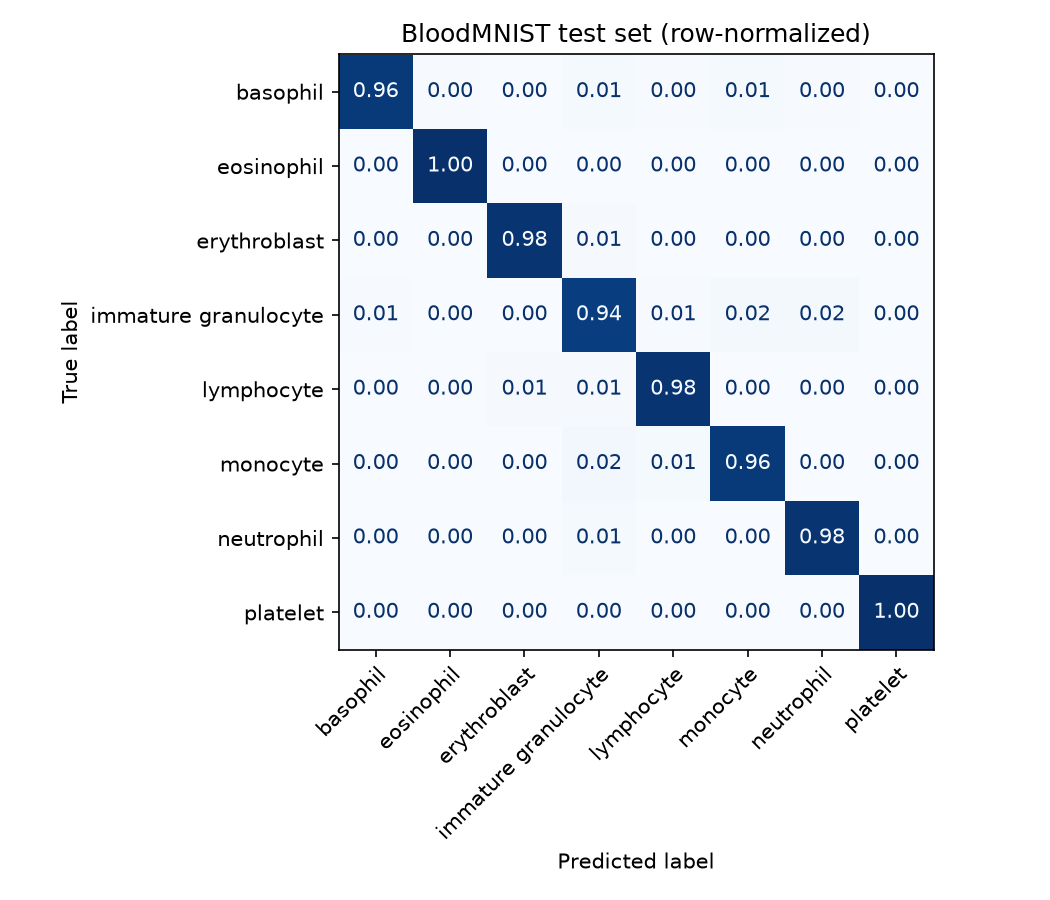
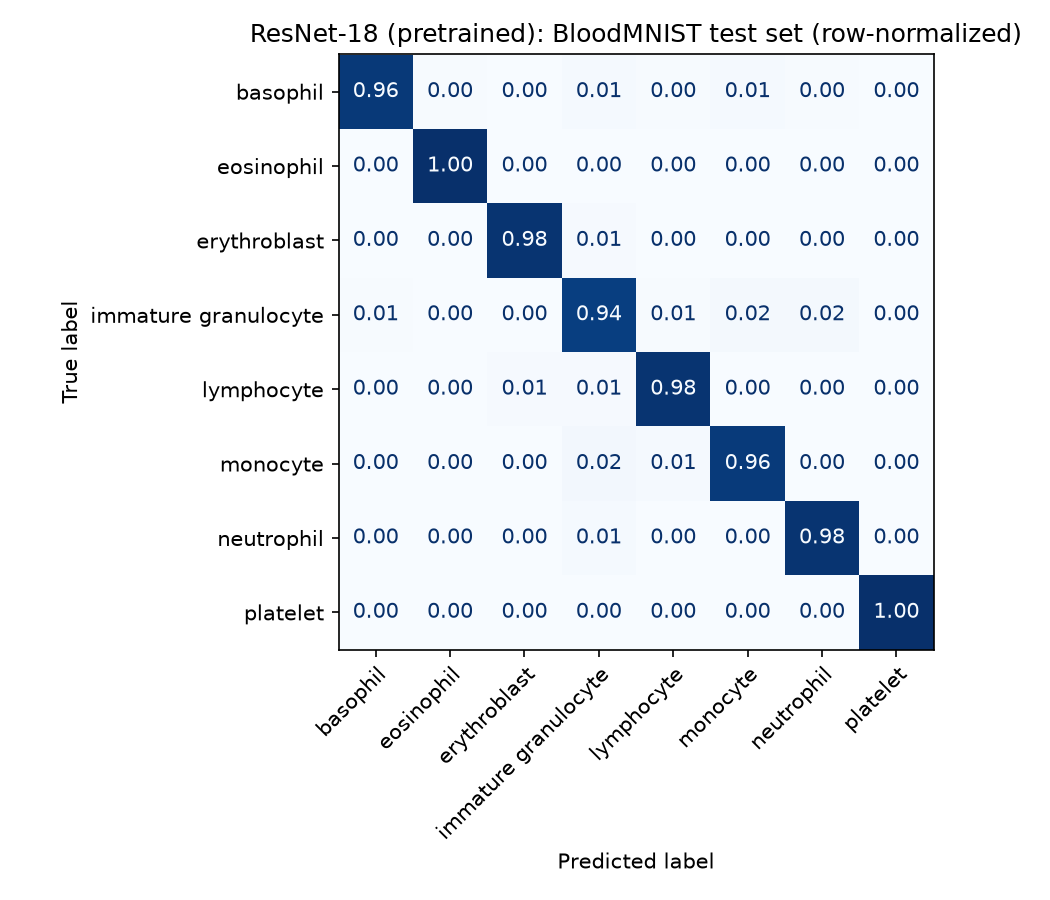
Code review fixes; add CLAUDE.md with review checklist
- evaluate(): decide instance labels vs. binary mask by dtype (int32),
  matching label_objects; one-cell label images and 0/255 masks were
  misclassified
- fit(): clear error instead of crashing when validation never improves
- train_medical.py: reject --optuna/--epochs/--out where they would be
  silently ignored; confusion-matrix titles name the model
- Move duplicated color_labels into src/segmentation.py
- CLAUDE.md: project facts, review checklist and review log

Changed region(s): [[0.2438, 0.0311, 0.9752, 0.0622]]

diff --git a/train_medical.py b/train_medical.py
@@ -64,7 +64,7 @@ def train_mlp_baseline(device: str, data_dir: str) -> float:
     return evaluate(model, test_loader, loss_fn, device)[1]
 
 
-def save_confusion_matrix(model, test_loader, device: str, path: str):
+def save_confusion_matrix(model, test_loader, device: str, path: str, title: str):
     """Plots a row-normalized confusion matrix of the test set."""
     import matplotlib.pyplot as plt
     from sklearn.metrics import ConfusionMatrixDisplay
@@ -83,7 +83,7 @@ def save_confusion_matrix(model, test_loader, device: str, path: str):
         values_format=".2f", cmap="Blues", xticks_rotation=45, ax=ax, colorbar=False,
     )
     plt.setp(ax.get_xticklabels(), ha="right", rotation_mode="anchor")
-    ax.set_title("BloodMNIST test set (row-normalized)")
+    ax.set_title(f"{title}: BloodMNIST test set (row-normalized)")
     fig.tight_layout()
     fig.savefig(path, dpi=150)
     print(f"Saved confusion matrix to {path}")
@@ -101,6 +101,12 @@ def main():
     parser.add_argument("--out", default=None,
                         help="weights file (default: biomedical_cnn.pth / biomedical_resnet18.pth)")
     args = parser.parse_args()
+    # Options that only apply to some models are rejected rather than silently ignored.
+    if args.optuna and args.model != "cnn":
+        parser.error("--optuna only applies to --model cnn")
+    if args.model == "mlp" and (args.out or args.epochs != parser.get_default("epochs")):
+        parser.error("--model mlp reproduces the fixed original baseline (5 epochs, no saved "
+                     "weights); --epochs and --out do not apply")
 
     torch.manual_seed(args.seed)
     device = get_device()
@@ -136,7 +142,8 @@ def main():
                    "test_accuracy": test_acc}, f, indent=2)
     print(f"Saved weights to {out}")
     suffix = "-resnet18" if args.model == "resnet18" else ""
-    save_confusion_matrix(model, test_loader, device, f"public/bloodmnist-confusion{suffix}.png")
+    title = "ResNet-18 (pretrained)" if args.model == "resnet18" else "Custom CNN"
+    save_confusion_matrix(model, test_loader, device, f"public/bloodmnist-confusion{suffix}.png", title)
 
 
 if __name__ == "__main__":

diff --git a/src/segmentation.py b/src/segmentation.py
@@ -78,6 +78,15 @@ def label_objects(mask: np.ndarray, min_size: int = 20) -> np.ndarray:
     return labels
 
 
+def color_labels(labels: np.ndarray) -> np.ndarray:
+    """RGB image with a random colour per instance and a black background.
+    The palette is seeded, so an id gets the same colour in every panel.
+    """
+    palette = np.random.default_rng(1).uniform(0.25, 1.0, (int(labels.max()) + 1, 3))
+    palette[0] = 0
+    return palette[labels]
+
+
 def instance_f1(gt_labels: np.ndarray, pred_labels: np.ndarray,
                 iou_thresh: float = 0.5) -> Tuple[float, int, int]:
     """Object-level F1. A true cell and a predicted object match when their
@@ -291,11 +300,13 @@ def evaluate(gt_mask: np.ndarray, results: Dict[str, np.ndarray]) -> "list[dict]
     """Score every method's mask against the ground truth. Returns a list
     of dicts (ready for ``pd.DataFrame``), sorted by Dice descending.
 
-    ``gt_mask`` may be a binary mask or an instance label image; with
-    instance labels, instance F1 and the object counts are added.
+    ``gt_mask`` may be a binary mask (any non-int32 dtype, e.g. 0/1 or 0/255
+    uint8) or an int32 instance label image, the same convention as
+    ``label_objects``; with instance labels, instance F1 and the object
+    counts are added.
     """
     gt_bin = (gt_mask > 0)
-    gt_labels = gt_mask.astype(np.int32) if gt_mask.max() > 1 else None
+    gt_labels = gt_mask if gt_mask.dtype == np.int32 else None
     rows = []
     for name, mask in results.items():
         pred_bin = (mask > 0)

diff --git a/tests/test_modules.py b/tests/test_modules.py
@@ -122,3 +122,25 @@ def test_convolve2d_output_shape():
     image = np.random.rand(20, 20)
     out = convolve2d(image, KERNELS["box_blur"], padding=1)
     assert out.shape == (20, 20)
+
+
+def test_evaluate_detects_ground_truth_type_by_dtype():
+    one_cell = np.zeros((20, 20), dtype=np.int32)
+    one_cell[5:12, 5:12] = 1                          # instance labels with a single cell
+    rows = evaluate(one_cell, {"perfect": one_cell.copy()})
+    assert rows[0]["instance_f1"] == 1.0 and rows[0]["cells_true"] == 1
+
+    mask_255 = (one_cell * 255).astype(np.uint8)       # binary mask saved as 0/255
+    rows = evaluate(mask_255, {"perfect": mask_255.copy()})
+    assert "instance_f1" not in rows[0]
+    assert rows[0]["dice"] == pytest.approx(1.0)
+
+
+def test_train_medical_rejects_options_that_do_not_apply(monkeypatch):
+    sys.modules.pop("train_medical", None)
+    import train_medical
+    for argv in (["--model", "resnet18", "--optuna", "5"], ["--model", "mlp", "--epochs", "3"]):
+        monkeypatch.setattr(sys, "argv", ["train_medical.py", *argv])
+        with pytest.raises(SystemExit) as exc:
+            train_medical.main()
+        assert exc.value.code == 2                     # argparse usage error, before any training

diff --git a/src/medical_cnn.py b/src/medical_cnn.py
@@ -1,8 +1,10 @@
 """
 medical_cnn.py
 ==============
-Convolutional neural network for BloodMNIST (28x28 RGB blood-cell images,
-8 classes), plus data loading, training and evaluation helpers.
+Blood-cell classifiers for BloodMNIST (28x28 RGB images, 8 classes): a
+compact custom CNN, the fully connected baseline it replaced, and an
+ImageNet-pretrained ResNet-18 reference; plus preprocessing, data loading,
+training, evaluation and checkpoint helpers.
 
 Requires the optional `torch`, `torchvision` and `medmnist` packages
 (``pip install torch torchvision medmnist``).
@@ -222,5 +224,7 @@ def fit(model, train_loader, val_loader, device: str, epochs: int = 15,
         if verbose:
             print(f"Epoch [{epoch + 1}/{epochs}] train loss {train_loss:.4f} | val acc {val_acc:.4f}")
 
+    if best_state is None:
+        raise RuntimeError("Validation accuracy never rose above 0; check epochs and data.")
     model.load_state_dict(best_state)
     return best_acc

diff --git a/pages/2_Biomedical_Segmentation.py b/pages/2_Biomedical_Segmentation.py
@@ -4,7 +4,7 @@ import pandas as pd
 from PIL import Image
 import matplotlib.pyplot as plt
 from src.segmentation import (
-    benchmark, evaluate, has_bright_background, label_objects, make_cell_image,
+    benchmark, color_labels, evaluate, has_bright_background, label_objects, make_cell_image,
     make_synthetic_image, run_all, cellpose_available,
 )
 
@@ -19,13 +19,6 @@ st.write(
     "pixel-level **Dice / IoU** and with **instance F1**, which checks whether each cell "
     "was segmented as its own object (a match needs IoU > 0.5 with a true cell)."
 )
-
-
-def color_labels(labels: np.ndarray) -> np.ndarray:
-    """Random colour per instance, black background."""
-    palette = np.random.default_rng(1).uniform(0.25, 1.0, (labels.max() + 1, 3))
-    palette[0] = 0
-    return palette[labels]
 
 
 def show_image(img, title, cmap=None, size=4):

diff --git a/benchmark_segmentation.py b/benchmark_segmentation.py
@@ -17,16 +17,9 @@ import matplotlib.pyplot as plt
 import numpy as np
 
 from src.segmentation import (
-    benchmark, cellpose_available, label_objects, make_cell_image, segment_cellpose,
+    benchmark, cellpose_available, color_labels, label_objects, make_cell_image, segment_cellpose,
     segment_otsu, segment_watershed,
 )
-
-
-def color_labels(labels: np.ndarray) -> np.ndarray:
-    """Random colour per instance, black background."""
-    palette = np.random.default_rng(1).uniform(0.25, 1.0, (labels.max() + 1, 3))
-    palette[0] = 0
-    return palette[labels]
 
 
 def save_example(path: str, seed: int = 0, include_cellpose: bool = True):

diff --git a/CLAUDE.md b/CLAUDE.md
@@ -1,0 +1,89 @@
+# CLAUDE.md
+
+Guidance for Claude (and humans) working on this repository.
+
+## Project
+
+Streamlit app + reusable modules for biomedical image analysis, deployed at
+<https://visionserve-full-stack-ml-framework.streamlit.app/>.
+
+- `src/medical_cnn.py` — BloodMNIST classifiers: custom CNN (shipped, 96.6%), MLP baseline (72.9%), ImageNet-pretrained ResNet-18 reference (97.8%)
+- `src/segmentation.py` — classical segmentation, synthetic cell benchmark, Dice/IoU/instance F1, optional Cellpose reference
+- `src/vision_cnn.py` — FashionMNIST MLP (88.1%)
+- `src/classification.py`, `src/clustering.py`, `src/convolution.py`, `src/visualization.py` — ML utilities
+- `pages/` — Streamlit pages; `app.py` — home page
+- `train.py`, `train_medical.py`, `benchmark_segmentation.py` — reproducible scripts behind every number in the README
+
+## Commands
+
+```bash
+pip install -r requirements.txt -r requirements-dev.txt   # dev extras need Python <= 3.12 (Cellpose)
+pytest tests/                                              # unit + Streamlit AppTest end-to-end tests
+python train_medical.py [--model cnn|mlp|resnet18] [--optuna N]
+python benchmark_segmentation.py --images 50 [--start-seed 100]
+streamlit run app.py
+```
+
+## Facts that are easy to get wrong
+
+- **Streamlit Cloud runs Python 3.14** and ignores `runtime.txt`. Anything in
+  `requirements.txt` must install on 3.14 from prebuilt wheels.
+- **Cellpose 3 pins `numpy<2.1`** (no 3.14 wheels) → it lives in
+  `requirements-dev.txt` only; the app hides Cellpose when it is not installed.
+- CI (`.github/workflows/tests.yml`) runs Python 3.12 with dev extras **and**
+  Python 3.14 with exactly the deployment's dependencies.
+- After every push the deployed app must be rebooted by hand in Streamlit Cloud
+  (the deployment is not auto-syncing).
+- The user's Windows checkout lives under a very long path: datasets need the
+  `\\?\` long-path prefix (see how `--data-dir` is passed), and `uv`/venvs in the
+  scratch folder break. Use the global Python for local checks.
+- BloodMNIST uploads must be reduced to 28×28 with **BOX** (area) resampling;
+  bicubic flips predictions.
+- Brightfield images (light background) are inverted before segmentation
+  (`has_bright_background`).
+- Label images are `int32`; binary masks are any other dtype. `label_objects`
+  and `evaluate` both rely on this convention.
+
+## Review checklist — use ALL of it on every check
+
+Approach every review as if nothing has been checked before. Do not skip an
+item because an earlier round covered it; re-verify against the current code.
+
+1. **Correctness** — read every changed/central function line by line: index
+   order, off-by-one, dtype/shape assumptions, empty inputs, edge cases
+   (0 objects, 1 object, non-square, huge images, grayscale/RGBA/16-bit).
+2. **ML methodology** — no test-set leakage (tuning only on train/val or CV),
+   seeds fixed, metrics computed the way the README says.
+3. **Claims vs. code** — every number and sentence in README, `app.py` and the
+   pages must be reproducible from the code in this repo; re-run the relevant
+   script when in doubt. Cite published numbers only from the source.
+4. **App** — every page, button, selector and upload path works
+   (`tests/test_app.py`); no deprecated Streamlit APIs; memory-safe on
+   Streamlit Cloud (~1 GB).
+5. **Dependencies & deployment** — installs on Python 3.14 from wheels; CI
+   green on both Python versions; versions pinned where breakage is likely.
+6. **Tests** — every fixed bug gets a regression test; tests assert something
+   meaningful (no always-true assertions).
+7. **Code quality** — no duplicated helpers, no dead code, docstrings match
+   behaviour, CLI rejects options it would ignore.
+8. **Repo hygiene** — no committed data, caches, OS junk or secrets; README
+   links and images resolve.
+
+Every finding must be **verified** (reproduced or proven from the code) before
+it is fixed. After fixing: run `pytest tests/`, then log the round below.
+
+## Review log
+
+Pre-loop audits (2026-10-13) fixed: brightfield segmentation inverted;
+convolution crashed on non-square images; the sklearn Optuna helper tuned on
+the test set; SVC without feature scaling; upload memory
+blow-up; deprecated `use_container_width`; seaborn palette deprecation;
+Cellpose blocking the Python 3.14 deployment; `evaluate()` guessing the
+ground-truth type from its max value; `fit()` crash when validation never
+improves; CLI silently ignoring `--optuna`/`--epochs`; duplicated
+`color_labels`.
+
+### Review loop (10 rounds)
+
+| Round | Extra focus | Verified findings | Fixed | Tests |
+|---|---|---|---|---|
